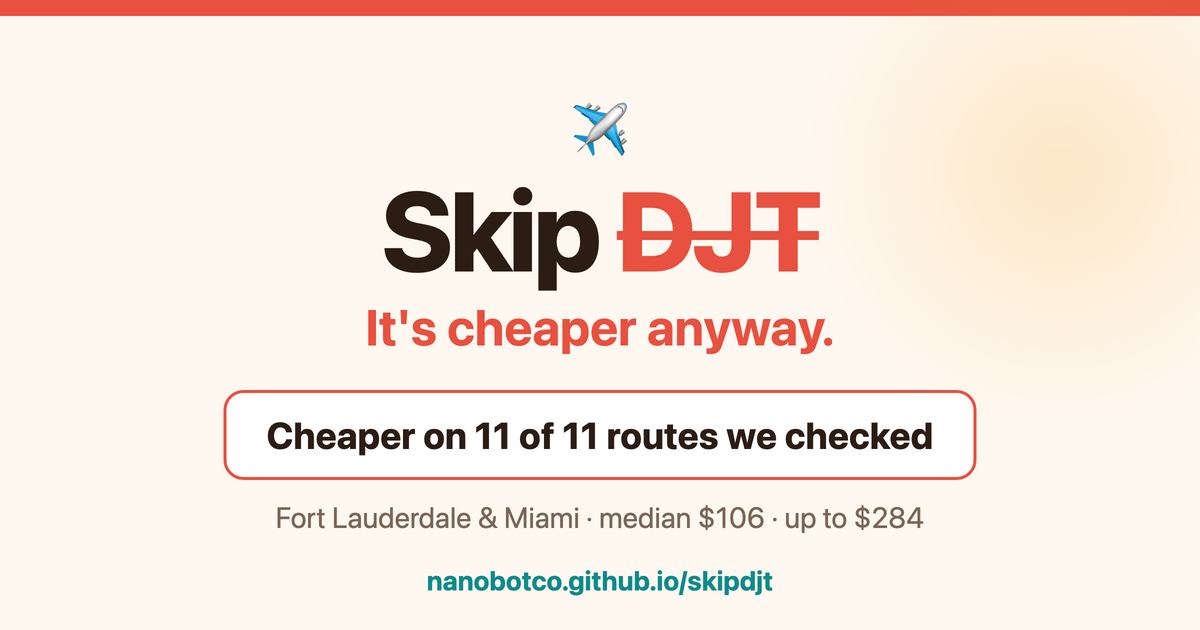
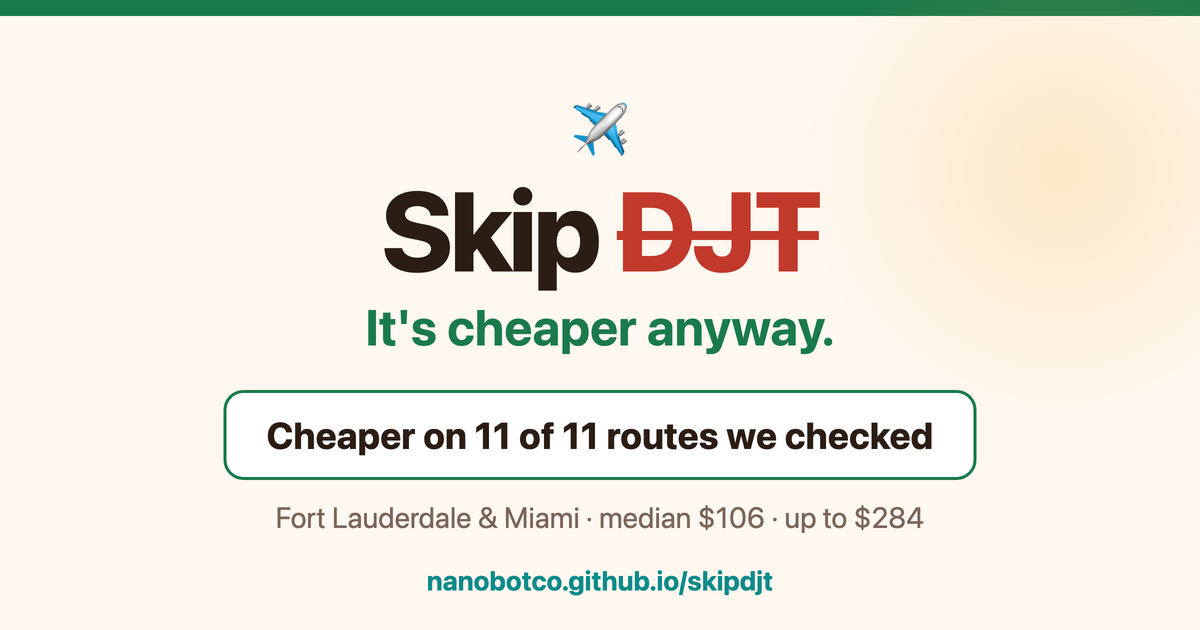
Red now means one thing only: DJT
The hero announcing the savings was outlined and set in the same red
reserved for the airport being avoided — the colour said 'warning' while
the words said 'you win'. Same contradiction as the Book buttons.

Recoloured to green: hero border and headline, tagline, share hover,
social card bar/tagline/stat border, app icon, theme-color, manifest.
Swapped the red emoji too — the two red cars became motorways, the red
ticket a globe, the red admission ticket a banknote.

Red survives in exactly three places, all of them DJT struck through, and
the two shades were unified so there is now a single red on the site.

Hero contrast 9.27, tagline 10.05.

diff --git a/docs/index.html b/docs/index.html
@@ -40,7 +40,7 @@
 *{box-sizing:border-box;margin:0;padding:0}
 :root{
   --bg:#fff8f0; --ink:#2b1c14; --muted:#7a6558; --card:#fff;
-  --line:#f0ddc9; --coral:#e8503f; --teal:#0d8a8a; --sun:#f5a623;
+  --line:#f0ddc9; --teal:#0d8a8a; --sun:#f5a623;
   --good:#1a7a4c; --shadow:0 2px 14px rgba(80,40,20,.08);
   /* One meaning per colour, and never colour alone -- every state also
      carries a word and a symbol, because colour-blind and low-vision
@@ -78,14 +78,14 @@ header{text-align:center;padding:34px 0 20px}
 .plane{font-size:44px;display:block;margin-bottom:6px}
 h1{font-size:clamp(34px,7vw,54px);line-height:1.05;letter-spacing:-.02em;
   font-weight:800}
-h1 .strike{text-decoration:line-through;text-decoration-color:var(--coral);
+h1 .strike{text-decoration:line-through;text-decoration-color:var(--avoid);
   text-decoration-thickness:5px;opacity:.55}
-.tag{font-size:clamp(19px,3.6vw,25px);color:var(--coral);font-weight:700;
+.tag{font-size:clamp(19px,3.6vw,25px);color:var(--win);font-weight:700;
   margin-top:10px}
 .sub{color:var(--muted);margin-top:14px;font-size:16px}
-.hero{background:var(--card);border:2px solid var(--coral);border-radius:20px;
+.hero{background:var(--card);border:2px solid var(--win);border-radius:20px;
   padding:22px;margin:26px 0;text-align:center;box-shadow:var(--shadow)}
-.hero .big{font-size:clamp(30px,6vw,44px);font-weight:800;color:var(--coral);
+.hero .big{font-size:clamp(30px,6vw,44px);font-weight:800;color:var(--win);
   line-height:1.1}
 .hero .cap{color:var(--muted);font-size:15px;margin-top:8px}
 .chips{display:flex;gap:10px;justify-content:center;flex-wrap:wrap;margin:18px 0 6px}
@@ -148,7 +148,7 @@ tr.bestrow td{background:color-mix(in srgb, var(--good) 12%, transparent);
   border-radius:11px;padding:10px 16px;font:inherit;font-size:15px;
   font-weight:650;color:var(--ink);text-decoration:none;cursor:pointer;
   box-shadow:var(--shadow)}
-.share a:hover,.share button:hover{border-color:var(--coral)}
+.share a:hover,.share button:hover{border-color:var(--win)}
 .kofi{display:block;text-align:center;background:var(--sun);color:#2b1c14;
   text-decoration:none;font-weight:750;border-radius:14px;padding:15px;
   margin:26px 0;box-shadow:var(--shadow)}
@@ -170,7 +170,7 @@ th{font-size:13px;text-transform:uppercase;letter-spacing:.05em;
 td.num{text-align:right;font-variant-numeric:tabular-nums}
 </style>
 <link rel="manifest" href="./manifest.webmanifest">
-<meta name="theme-color" content="#e8503f">
+<meta name="theme-color" content="#1a7a4c">
 <meta name="apple-mobile-web-app-capable" content="yes">
 <meta name="apple-mobile-web-app-status-bar-style" content="black-translucent">
 <link rel="apple-touch-icon" href="./icon.svg">
@@ -197,11 +197,11 @@ td.num{text-align:right;font-variant-numeric:tabular-nums}
 </div>
 
 <div class="chips">
-  <span class="chip">🚗 FLL · 50 mi</span>
-  <span class="chip">🚗 MIA · 70 mi</span>
-  <span class="chip">🎫 21 destinations</span>
+  <span class="chip">🛣 FLL · 50 mi</span>
+  <span class="chip">🛣 MIA · 70 mi</span>
+  <span class="chip">🌎 21 destinations</span>
   <span class="chip">⚖ 15 same-day checks</span>
-  <span class="chip">🎟 123 dated fares</span>
+  <span class="chip">💵 123 dated fares</span>
   <span class="chip">🔄 Updated 2026-07-22</span>
 </div>
 

diff --git a/docs/skipdjt-offline.html b/docs/skipdjt-offline.html
@@ -40,7 +40,7 @@
 *{box-sizing:border-box;margin:0;padding:0}
 :root{
   --bg:#fff8f0; --ink:#2b1c14; --muted:#7a6558; --card:#fff;
-  --line:#f0ddc9; --coral:#e8503f; --teal:#0d8a8a; --sun:#f5a623;
+  --line:#f0ddc9; --teal:#0d8a8a; --sun:#f5a623;
   --good:#1a7a4c; --shadow:0 2px 14px rgba(80,40,20,.08);
   /* One meaning per colour, and never colour alone -- every state also
      carries a word and a symbol, because colour-blind and low-vision
@@ -78,14 +78,14 @@ header{text-align:center;padding:34px 0 20px}
 .plane{font-size:44px;display:block;margin-bottom:6px}
 h1{font-size:clamp(34px,7vw,54px);line-height:1.05;letter-spacing:-.02em;
   font-weight:800}
-h1 .strike{text-decoration:line-through;text-decoration-color:var(--coral);
+h1 .strike{text-decoration:line-through;text-decoration-color:var(--avoid);
   text-decoration-thickness:5px;opacity:.55}
-.tag{font-size:clamp(19px,3.6vw,25px);color:var(--coral);font-weight:700;
+.tag{font-size:clamp(19px,3.6vw,25px);color:var(--win);font-weight:700;
   margin-top:10px}
 .sub{color:var(--muted);margin-top:14px;font-size:16px}
-.hero{background:var(--card);border:2px solid var(--coral);border-radius:20px;
+.hero{background:var(--card);border:2px solid var(--win);border-radius:20px;
   padding:22px;margin:26px 0;text-align:center;box-shadow:var(--shadow)}
-.hero .big{font-size:clamp(30px,6vw,44px);font-weight:800;color:var(--coral);
+.hero .big{font-size:clamp(30px,6vw,44px);font-weight:800;color:var(--win);
   line-height:1.1}
 .hero .cap{color:var(--muted);font-size:15px;margin-top:8px}
 .chips{display:flex;gap:10px;justify-content:center;flex-wrap:wrap;margin:18px 0 6px}
@@ -148,7 +148,7 @@ tr.bestrow td{background:color-mix(in srgb, var(--good) 12%, transparent);
   border-radius:11px;padding:10px 16px;font:inherit;font-size:15px;
   font-weight:650;color:var(--ink);text-decoration:none;cursor:pointer;
   box-shadow:var(--shadow)}
-.share a:hover,.share button:hover{border-color:var(--coral)}
+.share a:hover,.share button:hover{border-color:var(--win)}
 .kofi{display:block;text-align:center;background:var(--sun);color:#2b1c14;
   text-decoration:none;font-weight:750;border-radius:14px;padding:15px;
   margin:26px 0;box-shadow:var(--shadow)}
@@ -192,11 +192,11 @@ td.num{text-align:right;font-variant-numeric:tabular-nums}
 </div>
 
 <div class="chips">
-  <span class="chip">🚗 FLL · 50 mi</span>
-  <span class="chip">🚗 MIA · 70 mi</span>
-  <span class="chip">🎫 21 destinations</span>
+  <span class="chip">🛣 FLL · 50 mi</span>
+  <span class="chip">🛣 MIA · 70 mi</span>
+  <span class="chip">🌎 21 destinations</span>
   <span class="chip">⚖ 15 same-day checks</span>
-  <span class="chip">🎟 123 dated fares</span>
+  <span class="chip">💵 123 dated fares</span>
   <span class="chip">🔄 Updated 2026-07-22</span>
 </div>
 

diff --git a/docs/card.html b/docs/card.html
@@ -3,7 +3,7 @@
 body{width:1200px;height:630px;background:#fff8f0;position:relative;
   font-family:ui-rounded,"SF Pro Rounded",-apple-system,BlinkMacSystemFont,
   "Segoe UI",system-ui,sans-serif;overflow:hidden}
-.bar{position:absolute;top:0;left:0;right:0;height:16px;background:#e8503f}
+.bar{position:absolute;top:0;left:0;right:0;height:16px;background:#1a7a4c}
 .sun{position:absolute;width:520px;height:520px;border-radius:50%;
   background:radial-gradient(circle,#f5a62333 0%,#f5a62300 70%);
   right:-120px;top:-90px}
@@ -12,9 +12,9 @@ body{width:1200px;height:630px;background:#fff8f0;position:relative;
 .plane{font-size:54px;margin-bottom:6px}
 h1{font-size:112px;font-weight:800;color:#2b1c14;letter-spacing:-.03em;
   line-height:1}
-h1 s{color:#e8503f;text-decoration-thickness:9px}
-.tag{font-size:50px;font-weight:700;color:#e8503f;margin-top:12px}
-.stat{margin-top:34px;background:#fff;border:3px solid #e8503f;
+h1 s{color:#c0392b;text-decoration-thickness:9px}
+.tag{font-size:50px;font-weight:700;color:#1a7a4c;margin-top:12px}
+.stat{margin-top:34px;background:#fff;border:3px solid #1a7a4c;
   border-radius:20px;padding:20px 40px;font-size:37px;font-weight:750;
   color:#2b1c14}
 .sub{margin-top:20px;font-size:29px;color:#7a6558}

diff --git a/build.py b/build.py
@@ -354,7 +354,7 @@ CSS = """
 *{box-sizing:border-box;margin:0;padding:0}
 :root{
   --bg:#fff8f0; --ink:#2b1c14; --muted:#7a6558; --card:#fff;
-  --line:#f0ddc9; --coral:#e8503f; --teal:#0d8a8a; --sun:#f5a623;
+  --line:#f0ddc9; --teal:#0d8a8a; --sun:#f5a623;
   --good:#1a7a4c; --shadow:0 2px 14px rgba(80,40,20,.08);
   /* One meaning per colour, and never colour alone -- every state also
      carries a word and a symbol, because colour-blind and low-vision
@@ -392,14 +392,14 @@ header{text-align:center;padding:34px 0 20px}
 .plane{font-size:44px;display:block;margin-bottom:6px}
 h1{font-size:clamp(34px,7vw,54px);line-height:1.05;letter-spacing:-.02em;
   font-weight:800}
-h1 .strike{text-decoration:line-through;text-decoration-color:var(--coral);
+h1 .strike{text-decoration:line-through;text-decoration-color:var(--avoid);
   text-decoration-thickness:5px;opacity:.55}
-.tag{font-size:clamp(19px,3.6vw,25px);color:var(--coral);font-weight:700;
+.tag{font-size:clamp(19px,3.6vw,25px);color:var(--win);font-weight:700;
   margin-top:10px}
 .sub{color:var(--muted);margin-top:14px;font-size:16px}
-.hero{background:var(--card);border:2px solid var(--coral);border-radius:20px;
+.hero{background:var(--card);border:2px solid var(--win);border-radius:20px;
   padding:22px;margin:26px 0;text-align:center;box-shadow:var(--shadow)}
-.hero .big{font-size:clamp(30px,6vw,44px);font-weight:800;color:var(--coral);
+.hero .big{font-size:clamp(30px,6vw,44px);font-weight:800;color:var(--win);
   line-height:1.1}
 .hero .cap{color:var(--muted);font-size:15px;margin-top:8px}
 .chips{display:flex;gap:10px;justify-content:center;flex-wrap:wrap;margin:18px 0 6px}
@@ -462,7 +462,7 @@ tr.bestrow td{background:color-mix(in srgb, var(--good) 12%, transparent);
   border-radius:11px;padding:10px 16px;font:inherit;font-size:15px;
   font-weight:650;color:var(--ink);text-decoration:none;cursor:pointer;
   box-shadow:var(--shadow)}
-.share a:hover,.share button:hover{border-color:var(--coral)}
+.share a:hover,.share button:hover{border-color:var(--win)}
 .kofi{display:block;text-align:center;background:var(--sun);color:#2b1c14;
   text-decoration:none;font-weight:750;border-radius:14px;padding:15px;
   margin:26px 0;box-shadow:var(--shadow)}
@@ -740,11 +740,11 @@ def render(rows, s, built):
 </div>
 
 <div class="chips">
-  <span class="chip">🚗 FLL · 50 mi</span>
-  <span class="chip">🚗 MIA · 70 mi</span>
-  <span class="chip">🎫 {s['routes_total']} destinations</span>
+  <span class="chip">🛣 FLL · 50 mi</span>
+  <span class="chip">🛣 MIA · 70 mi</span>
+  <span class="chip">🌎 {s['routes_total']} destinations</span>
   <span class="chip">⚖ {s['pairs_total']} same-day checks</span>
-  <span class="chip">🎟 {s['bookable_dates']} dated fares</span>
+  <span class="chip">💵 {s['bookable_dates']} dated fares</span>
   <span class="chip">🔄 Updated {esc(built[:10])}</span>
 </div>
 
@@ -939,7 +939,7 @@ def render_card_html(s):
 body{{width:1200px;height:630px;background:#fff8f0;position:relative;
   font-family:ui-rounded,"SF Pro Rounded",-apple-system,BlinkMacSystemFont,
   "Segoe UI",system-ui,sans-serif;overflow:hidden}}
-.bar{{position:absolute;top:0;left:0;right:0;height:16px;background:#e8503f}}
+.bar{{position:absolute;top:0;left:0;right:0;height:16px;background:#1a7a4c}}
 .sun{{position:absolute;width:520px;height:520px;border-radius:50%;
   background:radial-gradient(circle,#f5a62333 0%,#f5a62300 70%);
   right:-120px;top:-90px}}
@@ -948,9 +948,9 @@ body{{width:1200px;height:630px;background:#fff8f0;position:relative;
 .plane{{font-size:54px;margin-bottom:6px}}
 h1{{font-size:112px;font-weight:800;color:#2b1c14;letter-spacing:-.03em;
   line-height:1}}
-h1 s{{color:#e8503f;text-decoration-thickness:9px}}
-.tag{{font-size:50px;font-weight:700;color:#e8503f;margin-top:12px}}
-.stat{{margin-top:34px;background:#fff;border:3px solid #e8503f;
+h1 s{{color:#c0392b;text-decoration-thickness:9px}}
+.tag{{font-size:50px;font-weight:700;color:#1a7a4c;margin-top:12px}}
+.stat{{margin-top:34px;background:#fff;border:3px solid #1a7a4c;
   border-radius:20px;padding:20px 40px;font-size:37px;font-weight:750;
   color:#2b1c14}}
 .sub{{margin-top:20px;font-size:29px;color:#7a6558}}
@@ -1022,10 +1022,10 @@ def render_card(s):
     """SVG fallback card, kept for anything that prefers vector."""
     return f"""<svg xmlns="http://www.w3.org/2000/svg" width="1200" height="630" viewBox="0 0 1200 630">
 <rect width="1200" height="630" fill="#fff8f0"/>
-<rect x="0" y="0" width="1200" height="14" fill="#e8503f"/>
+<rect x="0" y="0" width="1200" height="14" fill="#1a7a4c"/>
 <text x="600" y="150" font-family="system-ui,sans-serif" font-size="60" text-anchor="middle" fill="#7a6558">✈</text>
-<text x="600" y="270" font-family="system-ui,sans-serif" font-size="104" font-weight="800" text-anchor="middle" fill="#2b1c14">Skip <tspan fill="#e8503f" text-decoration="line-through">DJT</tspan></text>
-<text x="600" y="345" font-family="system-ui,sans-serif" font-size="52" font-weight="700" text-anchor="middle" fill="#e8503f">It's cheaper anyway.</text>
+<text x="600" y="270" font-family="system-ui,sans-serif" font-size="104" font-weight="800" text-anchor="middle" fill="#2b1c14">Skip <tspan fill="#c0392b" text-decoration="line-through">DJT</tspan></text>
+<text x="600" y="345" font-family="system-ui,sans-serif" font-size="52" font-weight="700" text-anchor="middle" fill="#1a7a4c">It's cheaper anyway.</text>
 <text x="600" y="440" font-family="system-ui,sans-serif" font-size="38" text-anchor="middle" fill="#2b1c14">Cheaper on {s['routes_cheaper']} of {s['routes_compared']} routes we checked</text>
 <text x="600" y="500" font-family="system-ui,sans-serif" font-size="32" text-anchor="middle" fill="#7a6558">Median ${s['median_saving']} · up to ${s['max_saving']} · Fort Lauderdale &amp; Miami</text>
 <text x="600" y="580" font-family="system-ui,sans-serif" font-size="28" text-anchor="middle" fill="#0d8a8a">{SITE_URL.replace('https://', '')}</text>
@@ -1066,7 +1066,7 @@ Sitemap: {SITE_URL}/sitemap.xml
 # downloadable build says so at the top of the page, in words, not small print.
 
 ICON = """<svg xmlns="http://www.w3.org/2000/svg" viewBox="0 0 512 512">
-<rect width="512" height="512" rx="112" fill="#e8503f"/>
+<rect width="512" height="512" rx="112" fill="#1a7a4c"/>
 <text x="256" y="300" font-size="240" text-anchor="middle" fill="#fff8f0"
       font-family="system-ui,sans-serif" font-weight="800">S</text>
 <rect x="120" y="252" width="272" height="26" rx="13" fill="#fff8f0"
@@ -1099,7 +1099,7 @@ self.addEventListener('fetch', e => {
 """
 
 PWA_HEAD = """<link rel="manifest" href="./manifest.webmanifest">
-<meta name="theme-color" content="#e8503f">
+<meta name="theme-color" content="#1a7a4c">
 <meta name="apple-mobile-web-app-capable" content="yes">
 <meta name="apple-mobile-web-app-status-bar-style" content="black-translucent">
 <link rel="apple-touch-icon" href="./icon.svg">
@@ -1145,7 +1145,7 @@ def build_app(page_html, built):
                             "Miami on the same departure date."),
             "start_url": "./", "scope": "./", "display": "standalone",
             "orientation": "any", "background_color": "#fff8f0",
-            "theme_color": "#e8503f",
+            "theme_color": "#1a7a4c",
             "icons": [{"src": "./icon.svg", "sizes": "any",
                        "type": "image/svg+xml", "purpose": "any maskable"}],
         }, f, indent=2)
